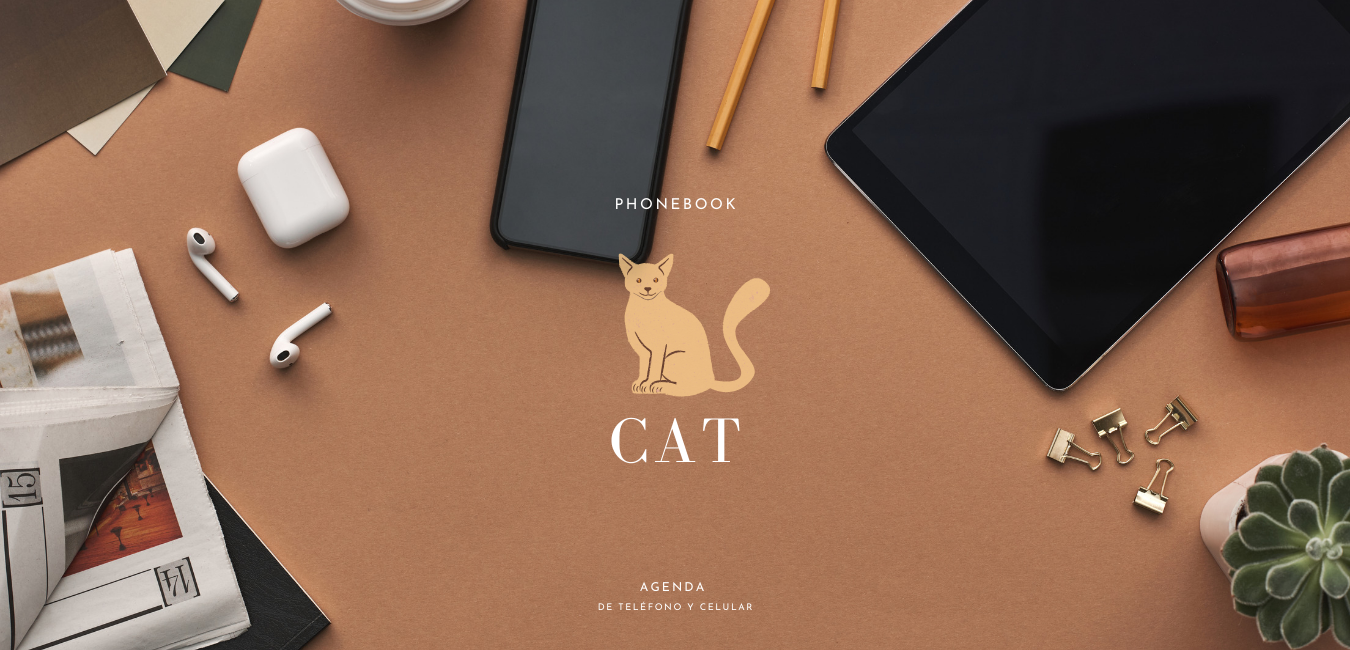
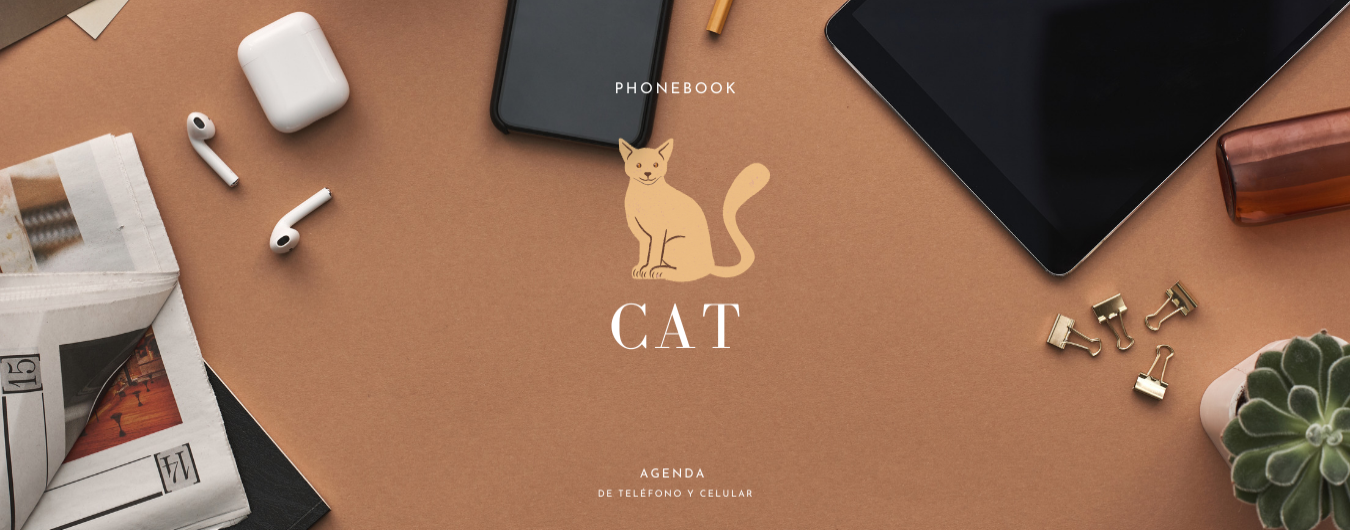
Pagina principal

diff --git a/public/vista/css/pageHome.css b/public/vista/css/pageHome.css
@@ -29,8 +29,8 @@ a:visited {
 
 .logo{
     width: 100%;
-    height: 120px;
-    background-color: black;
+    height: 125px;
+    background-color: white;
     color: #403F3D;
 }
 
@@ -39,7 +39,6 @@ a:visited {
     margin-top: 10px;
     text-align: center;
     width: 6%;
-    line-height: 140px;
     background-color: #AF927C;
     background-repeat: no-repeat;
     background-position: center;
@@ -48,8 +47,8 @@ a:visited {
 
 
 #rightFloat{
-    width: 86%;
-    height: 190px;
+    width: 91%;
+    height: 125px;
     margin-left: 10px;
     padding: 0px 10px 0px 0px;
     background-color: white;
